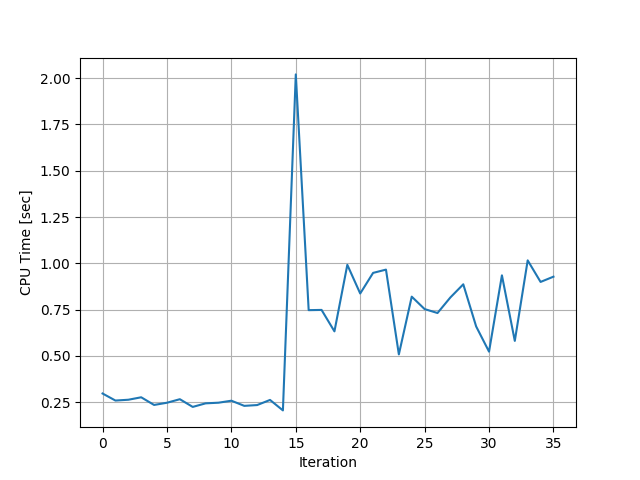
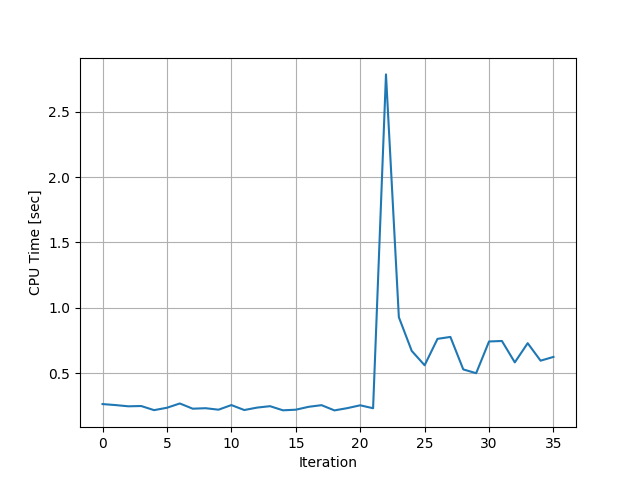
adjusting detection window with scale factors

diff --git a/problemData.py b/problemData.py
@@ -12,8 +12,8 @@ mph2fps = 4.4/3
 
 # Grid selection
 
-scaleFactorE = 1
-scaleFactorN = 1
+scaleFactorE = 2
+scaleFactorN = 2
 scaleFactorh = 1
 
 widthSpace = 16 # ft
@@ -45,11 +45,11 @@ dNewPathAdjust = 2.0 * np.sqrt(scaleFactorN**2 + scaleFactorN**2)
 sf_T = 1
 
 # default
-N = 4
+N = 6
 T = 0.4*sf_T
 ns = 4
 no = 1
-V0 = 5*mph2fps
+V0 = 10*mph2fps
 
 if abs(V0 - 5*mph2fps) <= 10**(-3):
     if no == 0:
@@ -121,6 +121,15 @@ elif abs(V0 - 10*mph2fps) <= 10**(-3):
             if ns == 4:
                 mpciterations = 36/sf_T  # 36
 
+        if N == 6:
+            if ns == 4:
+                mpciterations = 34/sf_T  # 36
+
+        if N == 8:
+            if ns == 4:
+                mpciterations = 32/sf_T  # 36
+
+
     elif no == 2:
         if N == 4:
             if ns == 4:
@@ -175,7 +184,7 @@ mpciterations = int(mpciterations)
 # obstaclePresent = False
 
 # Detection Window
-detectionWindow = {'L': 20 * scaleFactorN, 'W': 11 *scaleFactorE}
+detectionWindow = {'L': 50 * scaleFactorN, 'W': 11 *scaleFactorE}
 
 # Positon Index w.r.t. Path Sections
 posIdx0 = {'number': 0}
@@ -195,7 +204,7 @@ if ns == 4:
     Chi0 = 0 * np.pi / 180  # rad
     x0 = [E0, N0, V0, Chi0]  # E, N, V, Chi, Vdot, Chidot
 
-    lb_VdotVal = -2  # fps3
+    lb_VdotVal = -2  # fps30
     ub_VdotVal = 2  # fps3
     lb_ChidotVal = -20 * np.pi / 180  # rad/s2
     ub_ChidotVal = 20 * np.pi / 180  # rad/s2
